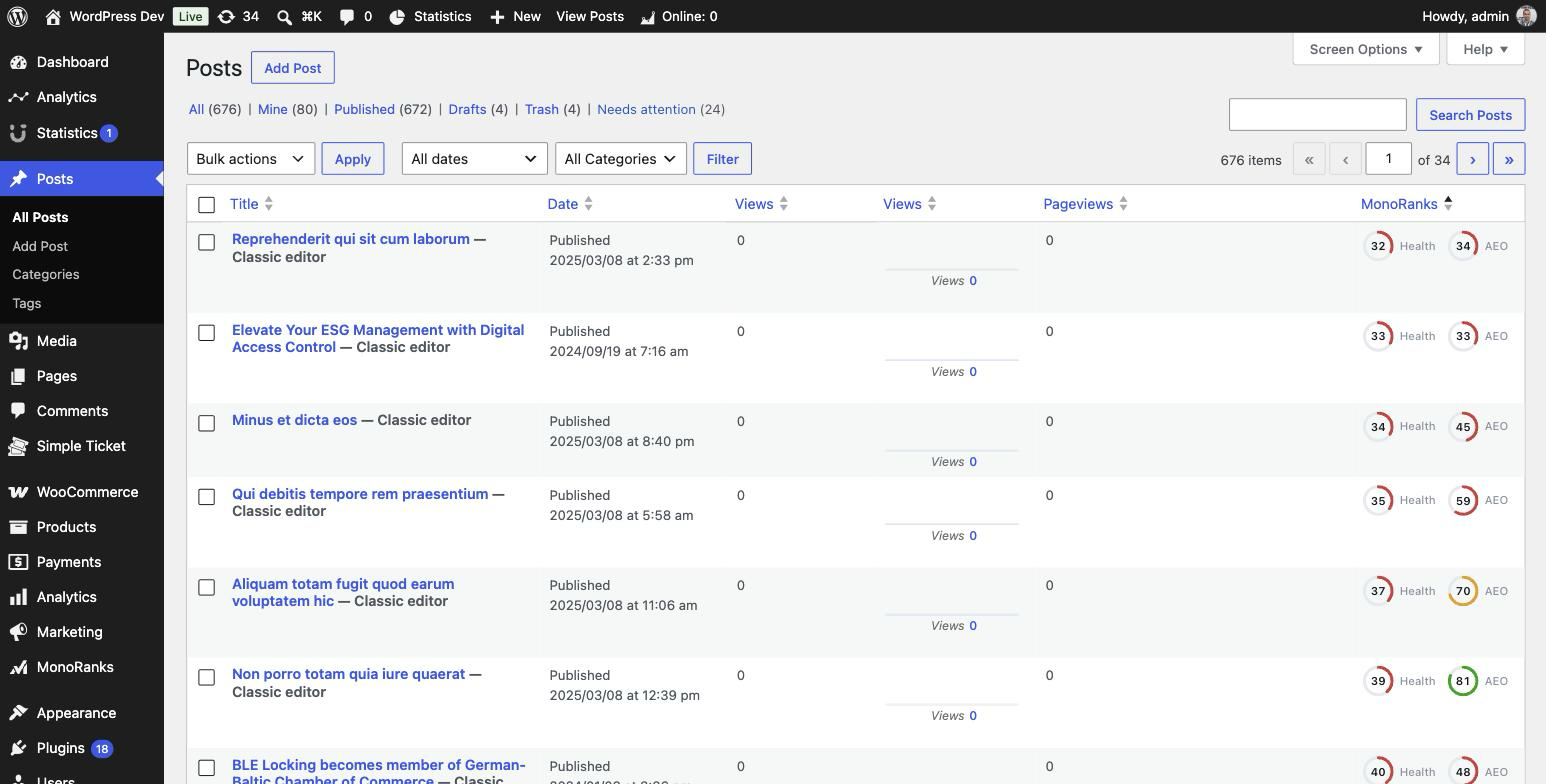
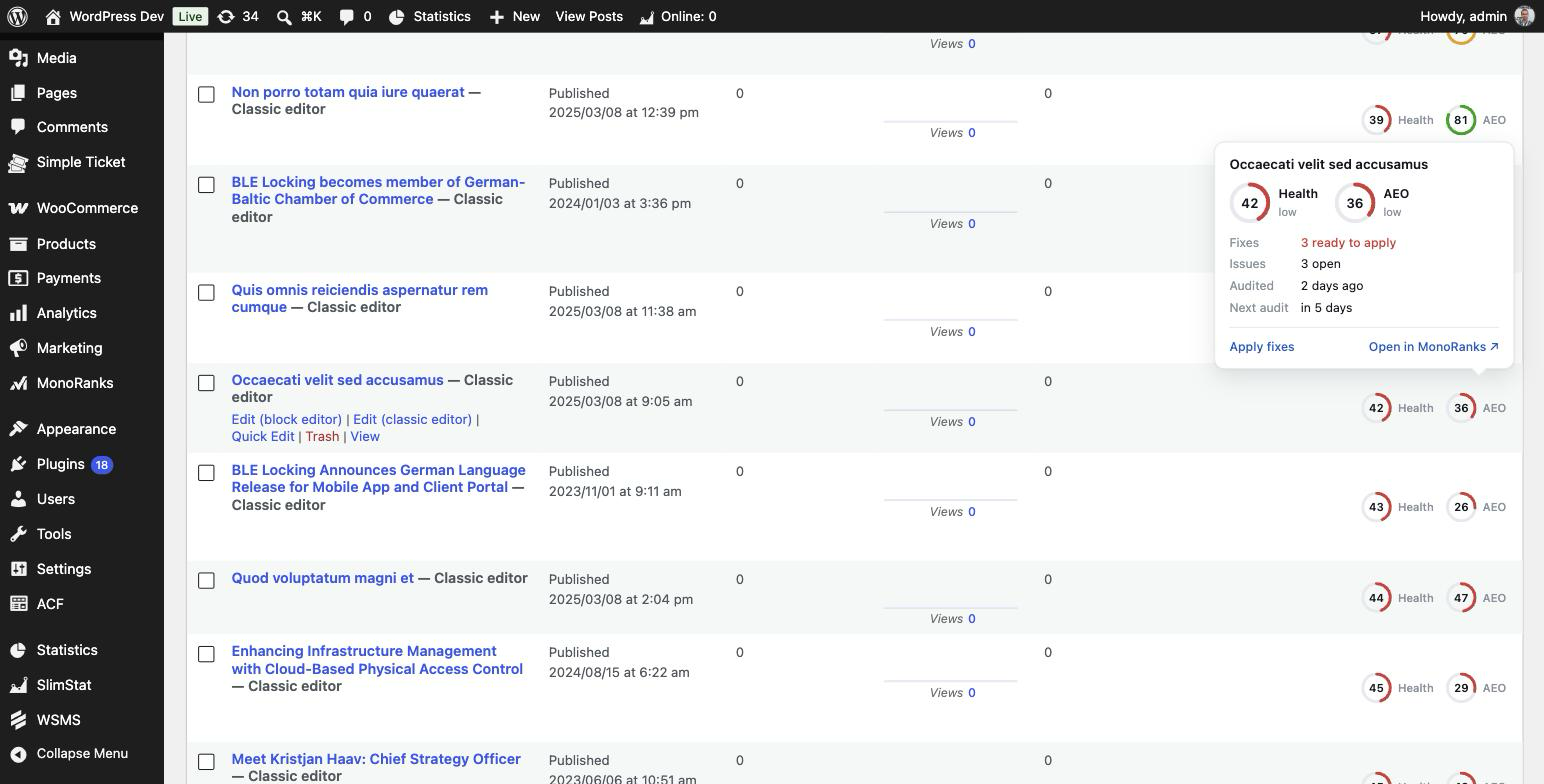
Listing screenshots retaken with the hover card; card titles keep their own direction

diff --git a/resources/views/column-cell.php b/resources/views/column-cell.php
@@ -17,13 +17,13 @@ use MonoRanks\Admin;
 <?php elseif ( 'draft' === $state ) : ?>
 	<span class="row" tabindex="0"><span class="xs">&mdash;</span></span>
 	<div class="mr-tip" role="tooltip">
-		<div class="t"><bdi><?php echo esc_html( $title ); ?></bdi></div>
+		<div class="t" dir="auto"><?php echo esc_html( $title ); ?></div>
 		<div class="empty"><?php esc_html_e( 'Drafts are not sent to MonoRanks. This page gets its scores after the first audit that follows publishing.', 'monoranks' ); ?></div>
 	</div>
 <?php elseif ( 'none' === $state ) : ?>
 	<span class="row" tabindex="0" aria-label="<?php echo esc_attr( $hint ); ?>"><?php echo Admin::ring( null, 'sm', __( 'Health', 'monoranks' ) ) . Admin::ring( null, 'sm', __( 'AEO', 'monoranks' ) ); // phpcs:ignore WordPress.Security.EscapeOutput.OutputNotEscaped -- the partial escapes ?></span>
 	<div class="mr-tip" role="tooltip">
-		<div class="t"><bdi><?php echo esc_html( $title ); ?></bdi></div>
+		<div class="t" dir="auto"><?php echo esc_html( $title ); ?></div>
 		<div class="rings">
 			<span class="rk"><?php echo Admin::ring( null, 'md' ); // phpcs:ignore WordPress.Security.EscapeOutput.OutputNotEscaped -- the partial escapes ?><span class="k"><b><?php esc_html_e( 'Health', 'monoranks' ); ?></b><span><?php echo esc_html( Admin::tone_word( null ) ); ?></span></span></span>
 			<span class="rk"><?php echo Admin::ring( null, 'md' ); // phpcs:ignore WordPress.Security.EscapeOutput.OutputNotEscaped -- the partial escapes ?><span class="k"><b><?php esc_html_e( 'AEO', 'monoranks' ); ?></b><span><?php echo esc_html( Admin::tone_word( null ) ); ?></span></span></span>
@@ -38,7 +38,7 @@ use MonoRanks\Admin;
 <?php else : ?>
 	<span class="row" tabindex="0" aria-label="<?php echo esc_attr( $line ); ?>"><?php echo Admin::ring( $health, 'sm', __( 'Health', 'monoranks' ) ) . Admin::ring( $aeo, 'sm', __( 'AEO', 'monoranks' ) ); // phpcs:ignore WordPress.Security.EscapeOutput.OutputNotEscaped -- the partial escapes ?></span>
 	<div class="mr-tip" role="tooltip">
-		<div class="t"><bdi><?php echo esc_html( $title ); ?></bdi></div>
+		<div class="t" dir="auto"><?php echo esc_html( $title ); ?></div>
 		<div class="rings">
 			<span class="rk"><?php echo Admin::ring( $health, 'md' ); // phpcs:ignore WordPress.Security.EscapeOutput.OutputNotEscaped -- the partial escapes ?><span class="k"><b><?php esc_html_e( 'Health', 'monoranks' ); ?></b><span><?php echo esc_html( Admin::tone_word( $health ) ); ?></span></span></span>
 			<span class="rk"><?php echo Admin::ring( $aeo, 'md' ); // phpcs:ignore WordPress.Security.EscapeOutput.OutputNotEscaped -- the partial escapes ?><span class="k"><b><?php esc_html_e( 'AEO', 'monoranks' ); ?></b><span><?php echo esc_html( Admin::tone_word( $aeo ) ); ?></span></span></span>
